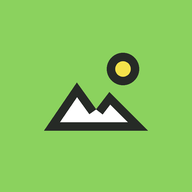
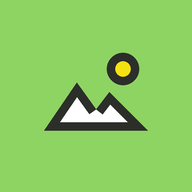
色を参考サイトのスクリーンショットから抜き出した色に合わせる
緑 #8ED462 / クリーム #F5F1E4 / 文字 #2C2E2A / 黄 #F5E211 / コーラル #FF705D /
青 #2BA0FF / ライラック #EBC1FF / ピーチ #FFBE9F / 茶 #BF5622。
グループの色の候補もこの9色から選ぶようにした。

Claude-Session: https://claude.ai/code/session_01DWAU9NUskHC2mW7GdQW74P

Changed region(s): [[0.5938, 0.3125, 0.6875, 0.4062]]

diff --git a/todo/app/globals.css b/todo/app/globals.css
@@ -1,22 +1,25 @@
 /* 明るいライムグリーン×クリーム。白いカードを浮かべ、丘・雲・テントの絵でアウトドア感を出す。
    見出しは太く字間を詰め、ボタンは「丸いアイコンつき」で押せることを伝える */
 :root {
-  --green: #8BD25E;
-  --green-2: #B8E58F;
-  --green-ink: #3F7F22;
-  --cream: #F4EFE3;
-  --cream-2: #EBE4D3;
+  /* 色は参考サイト（MindMarket）のスクリーンショットから抜き出したもの */
+  --green: #8ED462;
+  --green-2: #AEDF90;
+  --green-pale: #E6F4DE;
+  --cream: #F5F1E4;
+  --cream-2: #EDE8D8;
   --card: #FFFFFF;
-  --ink: #262A26;
-  --sub: #696E66;
-  --faint: #A3A79E;
-  --line: #E8E2D4;
-  --line-soft: #F0EBE0;
-  --yellow: #F4E24A;
-  --coral: #FF7461;
-  --sky: #2E9BFF;
-  --lilac: #E5C6F5;
-  --danger: #E0503B;
+  --ink: #2C2E2A;
+  --sub: #707069;
+  --faint: #A6A59C;
+  --line: #E0DBCE;
+  --line-soft: #EFEBDF;
+  --yellow: #F5E211;
+  --coral: #FF705D;
+  --sky: #2BA0FF;
+  --lilac: #EBC1FF;
+  --peach: #FFBE9F;
+  --brown: #BF5622;
+  --danger: #D9452F;
   --radius: 22px;
   --hour: 56px;
   --safe-b: env(safe-area-inset-bottom, 0px);
@@ -37,7 +40,7 @@ input[type="text"], input[type="date"], input[type="time"], input[type="number"]
   width: 100%; padding: 12px 14px; border: 1.5px solid var(--line); border-radius: 14px; background: var(--card); font-size: 16px; outline: none;
   transition: border-color .15s, box-shadow .15s;
 }
-input:focus, textarea:focus, select:focus { border-color: var(--green); box-shadow: 0 0 0 4px rgba(139, 210, 94, .25); }
+input:focus, textarea:focus, select:focus { border-color: var(--green); box-shadow: 0 0 0 4px rgba(142, 212, 98, .3); }
 :focus-visible { outline: 2.5px solid var(--sky); outline-offset: 2px; }
 textarea { resize: vertical; min-height: 76px; }
 @media (prefers-reduced-motion: reduce) { * { animation: none !important; transition: none !important; } }
@@ -52,7 +55,7 @@ textarea { resize: vertical; min-height: 76px; }
 .btn.sun:hover { filter: brightness(1.03); background: var(--yellow); }
 .btn.white { background: var(--card); }
 .btn.danger { color: var(--danger); background: transparent; }
-.btn.danger:hover { background: #FDEBE7; }
+.btn.danger:hover { background: #FFE9E5; }
 .btn.small { padding: 7px 13px; font-size: 13px; border-radius: 11px; }
 .btn.block { width: 100%; padding: 14px; }
 .btn.big { font-size: 16px; padding: 9px 9px 9px 20px; border-radius: 18px; justify-content: space-between; }
@@ -117,7 +120,7 @@ kbd { font-family: var(--display); font-size: 11.5px; font-weight: 700; border: 
 .bottombar > button { display: flex; flex-direction: column; align-items: center; gap: 3px; font-size: 11px; font-weight: 700; color: var(--sub); padding: 4px 0; position: relative; }
 .bottombar > button:hover { color: var(--ink); }
 .bottombar .capture-btn { color: var(--ink); }
-.bottombar .capture-btn .i { width: 58px; height: 58px; border-radius: 50%; background: var(--green); color: var(--ink); display: flex; align-items: center; justify-content: center; margin-top: -26px; box-shadow: 0 0 0 5px var(--card), 0 10px 20px rgba(63, 127, 34, .25); }
+.bottombar .capture-btn .i { width: 58px; height: 58px; border-radius: 50%; background: var(--green); color: var(--ink); display: flex; align-items: center; justify-content: center; margin-top: -26px; box-shadow: 0 0 0 5px var(--card), 0 10px 20px rgba(44, 46, 42, .18); }
 .bottombar .badge { top: -3px; right: calc(50% - 22px); }
 
 @media (min-width: 900px) {
@@ -145,8 +148,8 @@ kbd { font-family: var(--display); font-size: 11.5px; font-weight: 700; border: 
 .capture-box { border-radius: 20px; padding: 14px; background: var(--yellow); margin-bottom: 10px; }
 .capture-box .cap-label { font-size: 15px; font-weight: 900; letter-spacing: -.02em; margin-bottom: 9px; display: block; }
 .capture-box input { border-color: transparent; }
-.capture-box .hint { font-size: 11.5px; color: rgba(38, 42, 38, .7); margin-top: 9px; line-height: 1.7; }
-.capture-box kbd { border-color: rgba(38, 42, 38, .25); background: rgba(255, 255, 255, .6); }
+.capture-box .hint { font-size: 11.5px; color: rgba(44, 46, 42, .7); margin-top: 9px; line-height: 1.7; }
+.capture-box kbd { border-color: rgba(44, 46, 42, .25); background: rgba(255, 255, 255, .6); }
 .side-link { display: flex; align-items: center; gap: 11px; padding: 10px 11px; border-radius: 14px; font-size: 14.5px; font-weight: 500; text-align: left; width: 100%; color: var(--ink); }
 .side-link svg { color: var(--sub); }
 .side-link:hover { background: var(--cream); }
@@ -167,9 +170,9 @@ kbd { font-family: var(--display); font-size: 11.5px; font-weight: 700; border: 
 .timecol .hour { height: var(--hour); font-family: var(--display); font-size: 12.5px; font-weight: 700; color: var(--faint); text-align: right; padding-right: 8px; transform: translateY(-8px); font-variant-numeric: tabular-nums; }
 .col { position: relative; border-left: 1px solid var(--line-soft); min-width: 0; }
 .slot { height: var(--hour); border-top: 1px solid var(--line-soft); }
-.slot:hover { background: #F8FBF3; }
+.slot:hover { background: var(--green-pale); }
 .ev { position: absolute; left: 3px; right: 3px; border-radius: 12px; padding: 5px 8px; font-size: 12px; line-height: 1.35; overflow: hidden; text-align: left; cursor: pointer; z-index: 1; color: var(--ink); border-left-width: 0 !important; transition: transform .12s, box-shadow .12s; }
-.ev:hover { transform: translateY(-1px); box-shadow: 0 6px 14px rgba(38, 42, 38, .1); }
+.ev:hover { transform: translateY(-1px); box-shadow: 0 6px 14px rgba(44, 46, 42, .1); }
 .ev .t { font-weight: 800; overflow: hidden; text-overflow: ellipsis; }
 .ev .s { color: var(--sub); font-family: var(--display); font-size: 12px; font-weight: 600; }
 .ev.done { opacity: .45; }
@@ -188,10 +191,10 @@ kbd { font-family: var(--display); font-size: 11.5px; font-weight: 700; border: 
 .todo-list { display: flex; flex-direction: column; gap: 6px; padding: 4px 12px 12px; }
 .todo { display: flex; align-items: center; gap: 10px; padding: 11px 13px; border-radius: 14px; background: var(--cream); text-align: left; width: 100%; }
 .todo .grow { font-size: 14px; font-weight: 500; }
-.check { width: 22px; height: 22px; border-radius: 50%; border: 2px solid #CFCABD; flex: none; display: flex; align-items: center; justify-content: center; color: var(--ink); font-size: 12px; font-weight: 900; background: var(--card); }
+.check { width: 22px; height: 22px; border-radius: 50%; border: 2px solid var(--line); flex: none; display: flex; align-items: center; justify-content: center; color: var(--ink); font-size: 12px; font-weight: 900; background: var(--card); }
 .check:hover { border-color: var(--green); }
 .check.on { background: var(--green); border-color: var(--green); }
-.box { width: 24px; height: 24px; border-radius: 8px; border: 2px solid #CFCABD; flex: none; display: flex; align-items: center; justify-content: center; color: var(--ink); font-size: 13px; font-weight: 900; background: var(--card); }
+.box { width: 24px; height: 24px; border-radius: 8px; border: 2px solid var(--line); flex: none; display: flex; align-items: center; justify-content: center; color: var(--ink); font-size: 13px; font-weight: 900; background: var(--card); }
 .box:hover { border-color: var(--green); }
 .box.on { background: var(--green); border-color: var(--green); }
 
@@ -201,27 +204,27 @@ kbd { font-family: var(--display); font-size: 11.5px; font-weight: 700; border: 
 .mcell { min-height: 98px; border-bottom: 1px solid var(--line-soft); border-left: 1px solid var(--line-soft); padding: 5px; text-align: left; display: flex; flex-direction: column; gap: 3px; min-width: 0; background: var(--card); }
 .mcell:nth-child(7n+1) { border-left: 0; }
 .mcell .n { font-family: var(--display); font-size: 15px; font-weight: 800; width: 30px; height: 30px; display: flex; align-items: center; justify-content: center; border-radius: 50%; }
-.mcell.other { background: #FBF9F4; }
+.mcell.other { background: #FAF9F6; }
 .mcell.other .n { color: var(--faint); }
 .mcell.today .n { background: var(--green); }
-.mcell:hover { background: #F8FBF3; }
+.mcell:hover { background: var(--green-pale); }
 .mdots { display: flex; flex-wrap: wrap; gap: 3px; padding: 0 4px; }
 .mtitle { font-size: 11px; font-weight: 600; white-space: nowrap; overflow: hidden; text-overflow: ellipsis; padding: 2px 6px; border-radius: 6px; }
 @media (max-width: 899px) { .mtitle { display: none; } .mcell { min-height: 66px; } }
 @media (min-width: 900px) { .mdots { display: none; } }
 
 /* ---- シート（モーダル） ---- */
-.overlay { position: fixed; inset: 0; background: rgba(38, 42, 38, .35); z-index: 50; display: flex; align-items: flex-end; justify-content: center; animation: fade .15s ease; }
+.overlay { position: fixed; inset: 0; background: rgba(44, 46, 42, .35); z-index: 50; display: flex; align-items: flex-end; justify-content: center; animation: fade .15s ease; }
 .sheet { background: var(--card); width: 100%; max-width: 560px; max-height: 92dvh; border-radius: 28px 28px 0 0; display: flex; flex-direction: column; animation: up .24s cubic-bezier(.2, .9, .3, 1.15); }
 @media (min-width: 900px) {
   .overlay { align-items: center; }
-  .sheet { border-radius: 28px; max-height: 88dvh; box-shadow: 0 30px 70px rgba(38, 42, 38, .2); }
+  .sheet { border-radius: 28px; max-height: 88dvh; box-shadow: 0 30px 70px rgba(44, 46, 42, .2); }
   .overlay.side { justify-content: flex-end; align-items: stretch; padding: 12px; }
   .overlay.side .sheet { max-height: none; height: 100%; max-width: 440px; animation: left .24s cubic-bezier(.2, .9, .3, 1.1); }
 }
 .sheet-head { display: flex; align-items: center; gap: 8px; padding: 18px 14px 10px 22px; }
 .sheet-head h3 { margin: 0; font-size: 22px; font-weight: 900; letter-spacing: -.035em; flex: 1; display: flex; align-items: center; gap: 10px; }
-.sheet-head h3 svg { color: var(--green-ink); }
+.sheet-head h3 svg { color: var(--ink); }
 .sheet-head .icon-btn { background: var(--cream); }
 .sheet-body { padding: 0 22px 22px; overflow: auto; flex: 1; }
 .sheet-foot { display: flex; gap: 8px; padding: 12px 16px calc(12px + var(--safe-b)); border-top: 1.5px solid var(--line-soft); background: var(--card); border-radius: 0 0 28px 28px; }
@@ -230,19 +233,19 @@ kbd { font-family: var(--display); font-size: 11.5px; font-weight: 700; border: 
 @keyframes left { from { transform: translateX(40px); opacity: .5 } }
 
 /* ---- ワンボタンメモ（スマホ） ---- */
-.capture-sheet { position: fixed; left: 0; right: 0; bottom: 0; z-index: 60; background: var(--yellow); border-radius: 28px 28px 0 0; padding: 20px 16px calc(16px + var(--safe-b)); box-shadow: 0 -10px 30px rgba(38, 42, 38, .15); transform: translateY(110%); transition: transform .22s cubic-bezier(.2, .9, .3, 1.1); }
+.capture-sheet { position: fixed; left: 0; right: 0; bottom: 0; z-index: 60; background: var(--yellow); border-radius: 28px 28px 0 0; padding: 20px 16px calc(16px + var(--safe-b)); box-shadow: 0 -10px 30px rgba(44, 46, 42, .15); transform: translateY(110%); transition: transform .22s cubic-bezier(.2, .9, .3, 1.1); }
 .capture-sheet.open { transform: none; }
 .capture-sheet .cap-title { font-size: 21px; font-weight: 900; letter-spacing: -.035em; margin-bottom: 10px; }
 .capture-sheet input { border-color: transparent; }
 .capture-sheet .btn:not(.primary) { background: rgba(255, 255, 255, .6); }
-.capture-backdrop { position: fixed; inset: 0; z-index: 59; background: rgba(38, 42, 38, .3); }
+.capture-backdrop { position: fixed; inset: 0; z-index: 59; background: rgba(44, 46, 42, .3); }
 
 /* ---- 付箋（メンバーのお知らせ） ---- */
 .stickies { position: fixed; top: max(12px, env(safe-area-inset-top)); right: 12px; z-index: 70; display: flex; flex-direction: column; gap: 10px; width: min(320px, calc(100vw - 24px)); }
-.sticky { background: var(--yellow); border-radius: 20px; padding: 14px 44px 14px 16px; box-shadow: 0 12px 26px rgba(38, 42, 38, .16); font-size: 14px; font-weight: 500; line-height: 1.55; position: relative; animation: pop .35s cubic-bezier(.2, .9, .3, 1.3); transform: rotate(-1deg); }
+.sticky { background: var(--yellow); border-radius: 20px; padding: 14px 44px 14px 16px; box-shadow: 0 12px 26px rgba(44, 46, 42, .16); font-size: 14px; font-weight: 500; line-height: 1.55; position: relative; animation: pop .35s cubic-bezier(.2, .9, .3, 1.3); transform: rotate(-1deg); }
 .sticky.created { background: var(--lilac); transform: rotate(.8deg); }
-.sticky.reaction { background: #FFC3B8; }
-.sticky.draft { background: var(--card); box-shadow: 0 12px 26px rgba(38, 42, 38, .16), inset 0 0 0 2.5px var(--yellow); }
+.sticky.reaction { background: var(--peach); }
+.sticky.draft { background: var(--card); box-shadow: 0 12px 26px rgba(44, 46, 42, .16), inset 0 0 0 2.5px var(--yellow); }
 .sticky .x { position: absolute; top: 9px; right: 9px; width: 28px; height: 28px; display: flex; align-items: center; justify-content: center; border-radius: 50%; background: rgba(255, 255, 255, .6); }
 .sticky .emojis { display: flex; gap: 6px; margin-top: 10px; }
 .sticky .emojis button { font-size: 20px; width: 42px; height: 42px; border-radius: 50%; background: var(--card); display: flex; align-items: center; justify-content: center; transition: transform .12s; }
@@ -251,11 +254,11 @@ kbd { font-family: var(--display); font-size: 11.5px; font-weight: 700; border: 
 @keyframes pop { from { transform: translateY(-14px) scale(.92) rotate(-4deg); opacity: 0 } }
 
 /* ---- 時間のリマインド（大きく表示） ---- */
-.banner { position: fixed; inset: 0; z-index: 80; background: rgba(38, 42, 38, .45); display: flex; align-items: center; justify-content: center; padding: 24px; animation: fade .2s ease; }
+.banner { position: fixed; inset: 0; z-index: 80; background: rgba(44, 46, 42, .45); display: flex; align-items: center; justify-content: center; padding: 24px; animation: fade .2s ease; }
 .banner-card { background: var(--green); border-radius: 30px; padding: 30px 22px 20px; text-align: center; max-width: 380px; width: 100%; animation: pop .35s cubic-bezier(.2, .9, .3, 1.3); }
 .banner-card .big { width: 78px; height: 78px; border-radius: 50%; background: var(--card); font-size: 40px; display: inline-flex; align-items: center; justify-content: center; }
 .banner-card h2 { font-size: 26px; font-weight: 900; letter-spacing: -.04em; margin: 14px 0 6px; text-wrap: balance; }
-.banner-card .muted { color: rgba(38, 42, 38, .78); }
+.banner-card .muted { color: rgba(44, 46, 42, .78); }
 .banner-card .btn.primary { background: var(--card); }
 
 /* ---- 持ち物チェック（全画面・緑） ---- */
@@ -279,7 +282,7 @@ kbd { font-family: var(--display); font-size: 11.5px; font-weight: 700; border: 
 .card h4 { margin: 0; font-size: 16px; font-weight: 800; letter-spacing: -.02em; flex: 1; }
 .card.soft { background: var(--yellow); }
 .card.soft .chip { border-color: transparent; }
-.li { display: flex; align-items: center; gap: 10px; padding: 10px 2px; border-bottom: 1.5px solid rgba(38, 42, 38, .06); font-size: 15px; font-weight: 500; }
+.li { display: flex; align-items: center; gap: 10px; padding: 10px 2px; border-bottom: 1.5px solid rgba(44, 46, 42, .06); font-size: 15px; font-weight: 500; }
 .li:last-child { border-bottom: 0; }
 .li.on .grow { color: var(--faint); text-decoration: line-through; }
 .li .del { color: var(--faint); font-size: 18px; width: 30px; height: 30px; border-radius: 50%; }
@@ -293,7 +296,7 @@ kbd { font-family: var(--display); font-size: 11.5px; font-weight: 700; border: 
 .notice { padding: 12px 2px; border-bottom: 1.5px solid var(--line-soft); font-size: 14px; }
 .notice.unread { font-weight: 800; }
 .code-big { font-family: var(--display); font-size: 48px; font-weight: 900; letter-spacing: .18em; text-align: center; padding: 16px; background: var(--green); border-radius: 20px; font-variant-numeric: tabular-nums; }
-.toast { position: fixed; left: 50%; bottom: calc(96px + var(--safe-b)); transform: translateX(-50%); background: var(--ink); color: #fff; padding: 12px 20px; border-radius: 16px; font-size: 14px; font-weight: 700; z-index: 90; animation: fade .2s ease; white-space: nowrap; box-shadow: 0 10px 24px rgba(38, 42, 38, .25); }
+.toast { position: fixed; left: 50%; bottom: calc(96px + var(--safe-b)); transform: translateX(-50%); background: var(--ink); color: #fff; padding: 12px 20px; border-radius: 16px; font-size: 14px; font-weight: 700; z-index: 90; animation: fade .2s ease; white-space: nowrap; box-shadow: 0 10px 24px rgba(44, 46, 42, .25); }
 @media (min-width: 900px) { .toast { bottom: 28px; } }
 
 /* シート内で使うときのリンク */

diff --git a/todo/demo/mock.ts b/todo/demo/mock.ts
@@ -17,9 +17,9 @@ const sat = addDays(mon, 5);
 
 const users: Any = { me: 'りょう', u2: '鈴木花子', u3: '佐藤次郎', u4: '母' };
 const groups: Any[] = [
-  { id: 'gp', name: '個人（自分専用）', description: '', color: '#E8C21E', is_personal: true, owner_id: 'me', notify_create: false, notify_done: false, invite_token: null, m: ['me'] },
-  { id: 'gf', name: '家族', description: '', color: '#FF7461', is_personal: false, owner_id: 'u4', notify_create: true, notify_done: true, invite_token: 'demo-family', m: ['me', 'u4'] },
-  { id: 'gw', name: '営業チーム', description: '', color: '#2E9BFF', is_personal: false, owner_id: 'u2', notify_create: true, notify_done: true, invite_token: 'demo-sales', m: ['me', 'u2', 'u3'] },
+  { id: 'gp', name: '個人（自分専用）', description: '', color: '#F5E211', is_personal: true, owner_id: 'me', notify_create: false, notify_done: false, invite_token: null, m: ['me'] },
+  { id: 'gf', name: '家族', description: '', color: '#FF705D', is_personal: false, owner_id: 'u4', notify_create: true, notify_done: true, invite_token: 'demo-family', m: ['me', 'u4'] },
+  { id: 'gw', name: '営業チーム', description: '', color: '#2BA0FF', is_personal: false, owner_id: 'u2', notify_create: true, notify_done: true, invite_token: 'demo-sales', m: ['me', 'u2', 'u3'] },
 ];
 
 function task(p: Any): Any {
@@ -41,9 +41,9 @@ const tasks: Any[] = [
   task({ group_id: 'gw', title: '定例会議', kind: 'meeting', date: mon, time: '10:00', description: '営業部との定例', repeat: { freq: 'weekly', interval: 1, weekdays: [1, 3], monthMode: 'day', until: null } }),
   task({ group_id: 'gf', user_id: 'u4', title: 'ゴミ出し', kind: 'duty', date: mon, time: '07:30', duration_min: 15, remind_all: true, repeat: { freq: 'weekly', interval: 1, weekdays: [2, 5], monthMode: 'day', until: null } }),
   task({ title: '歯医者', kind: 'reminder', date: addDays(T, 1), time: '18:30' }),
-  task({ title: 'ランニング', date: addDays(T, 2), time: '06:30', duration_min: 45, color: '#22B0A0' }),
+  task({ title: 'ランニング', date: addDays(T, 2), time: '06:30', duration_min: 45, color: '#EBC1FF' }),
   task({ group_id: 'gw', user_id: 'u2', title: '見積書を送る', date: addDays(T, 1), time: '11:00', duration_min: 30 }),
-  task({ group_id: 'gf', title: '週末キャンプ（道志）', date: sat, color: '#5DB33C', description: '10時に出発' }),
+  task({ group_id: 'gf', title: '週末キャンプ（道志）', date: sat, color: '#8ED462', description: '10時に出発' }),
   task({ title: 'ランタンの電池を買う' }),
   task({ title: 'キャンプ場の予約を確認' }),
   task({ status: 'draft', title: '田中さんに電話', captured_at: ago(25), detailed_at: null, reminders: [] }),
@@ -183,7 +183,7 @@ async function handle(path: string, method: string, b: Any): Promise<any> {
   }
   if (p === 'groups' && M === 'POST') {
     if (!b.name?.trim()) fail('グループ名を入力してください');
-    const g = { id: id(), name: b.name.trim(), description: '', color: b.color || '#2E9BFF', is_personal: false, owner_id: 'me', notify_create: true, notify_done: true, invite_token: 'demo-' + seq, m: ['me'] };
+    const g = { id: id(), name: b.name.trim(), description: '', color: b.color || '#2BA0FF', is_personal: false, owner_id: 'me', notify_create: true, notify_done: true, invite_token: 'demo-' + seq, m: ['me'] };
     groups.push(g);
     return { id: g.id };
   }

diff --git a/todo/app/components/Calendar.tsx b/todo/app/components/Calendar.tsx
@@ -66,7 +66,7 @@ function TimedColumn({ day, list, isToday, nowMin, onOpen, onNew, compact }: {
           style={{
             top: (s / 60) * hourPx + 1, height: Math.max(22, ((e - s) / 60) * hourPx - 2),
             left: `calc(${(lane / lanes) * 100}% + 2px)`, width: `calc(${100 / lanes}% - 4px)`, right: 'auto',
-            background: o.color + '33',
+            background: o.color + '4d',
           }}
           onClick={ev => { ev.stopPropagation(); onOpen(o); }}>
           <div className="t">{compact ? '' : KIND_PRESETS[o.task.kind]?.icon + ' '}{o.task.title}</div>
@@ -104,7 +104,7 @@ export function DayView(p: Props) {
             {untimed.map(o => (
               <div key={o.task.id} className="row">
                 <button className={'check' + (o.done ? ' on' : '')} onClick={() => p.onToggle(o)} aria-label="完了">{o.done ? '✓' : ''}</button>
-                <button className={'pill' + (o.done ? ' done' : '')} style={{ background: o.color + '33' }} onClick={() => p.onOpen(o)}>
+                <button className={'pill' + (o.done ? ' done' : '')} style={{ background: o.color + '4d' }} onClick={() => p.onOpen(o)}>
                   <span className="dot" style={{ background: o.color }} />{KIND_PRESETS[o.task.kind]?.icon} {o.task.title}
                 </button>
               </div>
@@ -151,7 +151,7 @@ export function WeekView(p: Props) {
           {lists.map((l, i) => (
             <div key={i} className="allday-cell">
               {l.filter(o => !o.task.time).map(o => (
-                <button key={o.task.id} className={'pill' + (o.done ? ' done' : '')} style={{ background: o.color + '33' }} onClick={() => p.onOpen(o)}>
+                <button key={o.task.id} className={'pill' + (o.done ? ' done' : '')} style={{ background: o.color + '4d' }} onClick={() => p.onOpen(o)}>
                   <span className="dot" style={{ background: o.color, width: 6, height: 6 }} />{o.task.title}
                 </button>
               ))}
@@ -188,7 +188,7 @@ export function MonthView(p: Props) {
               {list.slice(0, 6).map(o => <span key={o.task.id} className="dot" style={{ background: o.color, width: 7, height: 7, opacity: o.done ? .35 : 1 }} />)}
             </div>
             {list.slice(0, 3).map(o => (
-              <span key={o.task.id} className="mtitle" style={{ background: o.color + '33', textDecoration: o.done ? 'line-through' : undefined, opacity: o.done ? .5 : 1 }}>
+              <span key={o.task.id} className="mtitle" style={{ background: o.color + '4d', textDecoration: o.done ? 'line-through' : undefined, opacity: o.done ? .5 : 1 }}>
                 {o.task.time ? o.task.time + ' ' : ''}{o.task.title}
               </span>
             ))}

diff --git a/todo/app/api/[...path]/route.ts b/todo/app/api/[...path]/route.ts
@@ -116,7 +116,7 @@ route('POST', 'auth/register', async ({ req, body }) => {
     const u = (await c.query('INSERT INTO users (name, tz) VALUES ($1, $2) RETURNING id', [name, tz])).rows[0];
     const g = (await c.query(
       `INSERT INTO groups (name, color, is_personal, owner_id, notify_create, notify_done)
-       VALUES ('個人（自分専用）', '#E8C21E', true, $1, false, false) RETURNING id`, [u.id])).rows[0];
+       VALUES ('個人（自分専用）', '#F5E211', true, $1, false, false) RETURNING id`, [u.id])).rows[0];
     await c.query('INSERT INTO memberships (group_id, user_id) VALUES ($1, $2)', [g.id, u.id]);
     // よく使う持ち物チェックリストを最初から用意しておく（テンプレート）
     const seeds: [string, string, string | null, string[]][] = [
@@ -378,7 +378,7 @@ route('POST', 'groups', async ({ body }) => {
   if (!name) throw bad('グループ名を入力してください');
   const g = await tx(async c => {
     const g = (await c.query('INSERT INTO groups (name, description, color, owner_id) VALUES ($1,$2,$3,$4) RETURNING id',
-      [name, str(body.description, 200), COLORS.test(body.color) ? body.color : '#2E9BFF', u.id])).rows[0];
+      [name, str(body.description, 200), COLORS.test(body.color) ? body.color : '#2BA0FF', u.id])).rows[0];
     await c.query('INSERT INTO memberships (group_id, user_id) VALUES ($1,$2)', [g.id, u.id]);
     return g;
   });

diff --git a/todo/app/components/Icon.tsx b/todo/app/components/Icon.tsx
@@ -41,7 +41,7 @@ export function Logo({ size = 34 }: { size?: number }) {
 /** 丘・雲・太陽・テント・木の絵。onGreen は緑の面の上で使うとき */
 export function Scene({ onGreen = false, className = 'scene' }: { onGreen?: boolean; className?: string }) {
   const ink = { stroke: 'var(--ink)', strokeWidth: 2, strokeLinejoin: 'round' as const, strokeLinecap: 'round' as const };
-  const back = onGreen ? '#B8E58F' : '#DDF1C8';
+  const back = onGreen ? 'var(--green-2)' : 'var(--green-pale)';
   const front = onGreen ? 'var(--cream)' : 'var(--green)';
   const cloud = (x: number, y: number, k = 1) => (
     <g transform={`translate(${x} ${y}) scale(${k})`} style={{ fill: '#fff' }}>
@@ -51,7 +51,7 @@ export function Scene({ onGreen = false, className = 'scene' }: { onGreen?: bool
   const tree = (x: number, y: number, k = 1) => (
     <g transform={`translate(${x} ${y}) scale(${k})`}>
       <path d="M0 0v12" {...ink} fill="none" />
-      <path d="M-14 2 0-30 14 2z" style={{ fill: onGreen ? 'var(--green)' : '#5DB33C' }} {...ink} />
+      <path d="M-14 2 0-30 14 2z" style={{ fill: onGreen ? 'var(--green)' : 'var(--green-2)' }} {...ink} />
       <path d="M-5-10l5 4 5-4" fill="none" {...ink} strokeWidth={1.6} />
     </g>
   );

diff --git a/todo/app/lib.ts b/todo/app/lib.ts
@@ -90,5 +90,5 @@ export function occurrences(s: State, day: string, groupFilter: string): Occ[] {
     .sort((a, b) => (a.task.time || '').localeCompare(b.task.time || ''));
 }
 
-// 草原・空・焚き火・太陽・花…明るいアウトドアの色
-export const PALETTE = ['#5DB33C', '#2E9BFF', '#FF7461', '#E8C21E', '#B47BE0', '#F28BB5', '#22B0A0', '#A0703F'];
+// 参考サイトの色（緑・青・コーラル・黄・ライラック・ピーチ・茶・墨）
+export const PALETTE = ['#8ED462', '#2BA0FF', '#FF705D', '#F5E211', '#EBC1FF', '#FFBE9F', '#BF5622', '#2C2E2A'];

diff --git a/todo/app/layout.tsx b/todo/app/layout.tsx
@@ -14,7 +14,7 @@ export const viewport: Viewport = {
   width: 'device-width',
   initialScale: 1,
   viewportFit: 'cover',
-  themeColor: '#F4EFE3',
+  themeColor: '#F5F1E4',
 };
 
 export default function RootLayout({ children }: { children: React.ReactNode }) {
